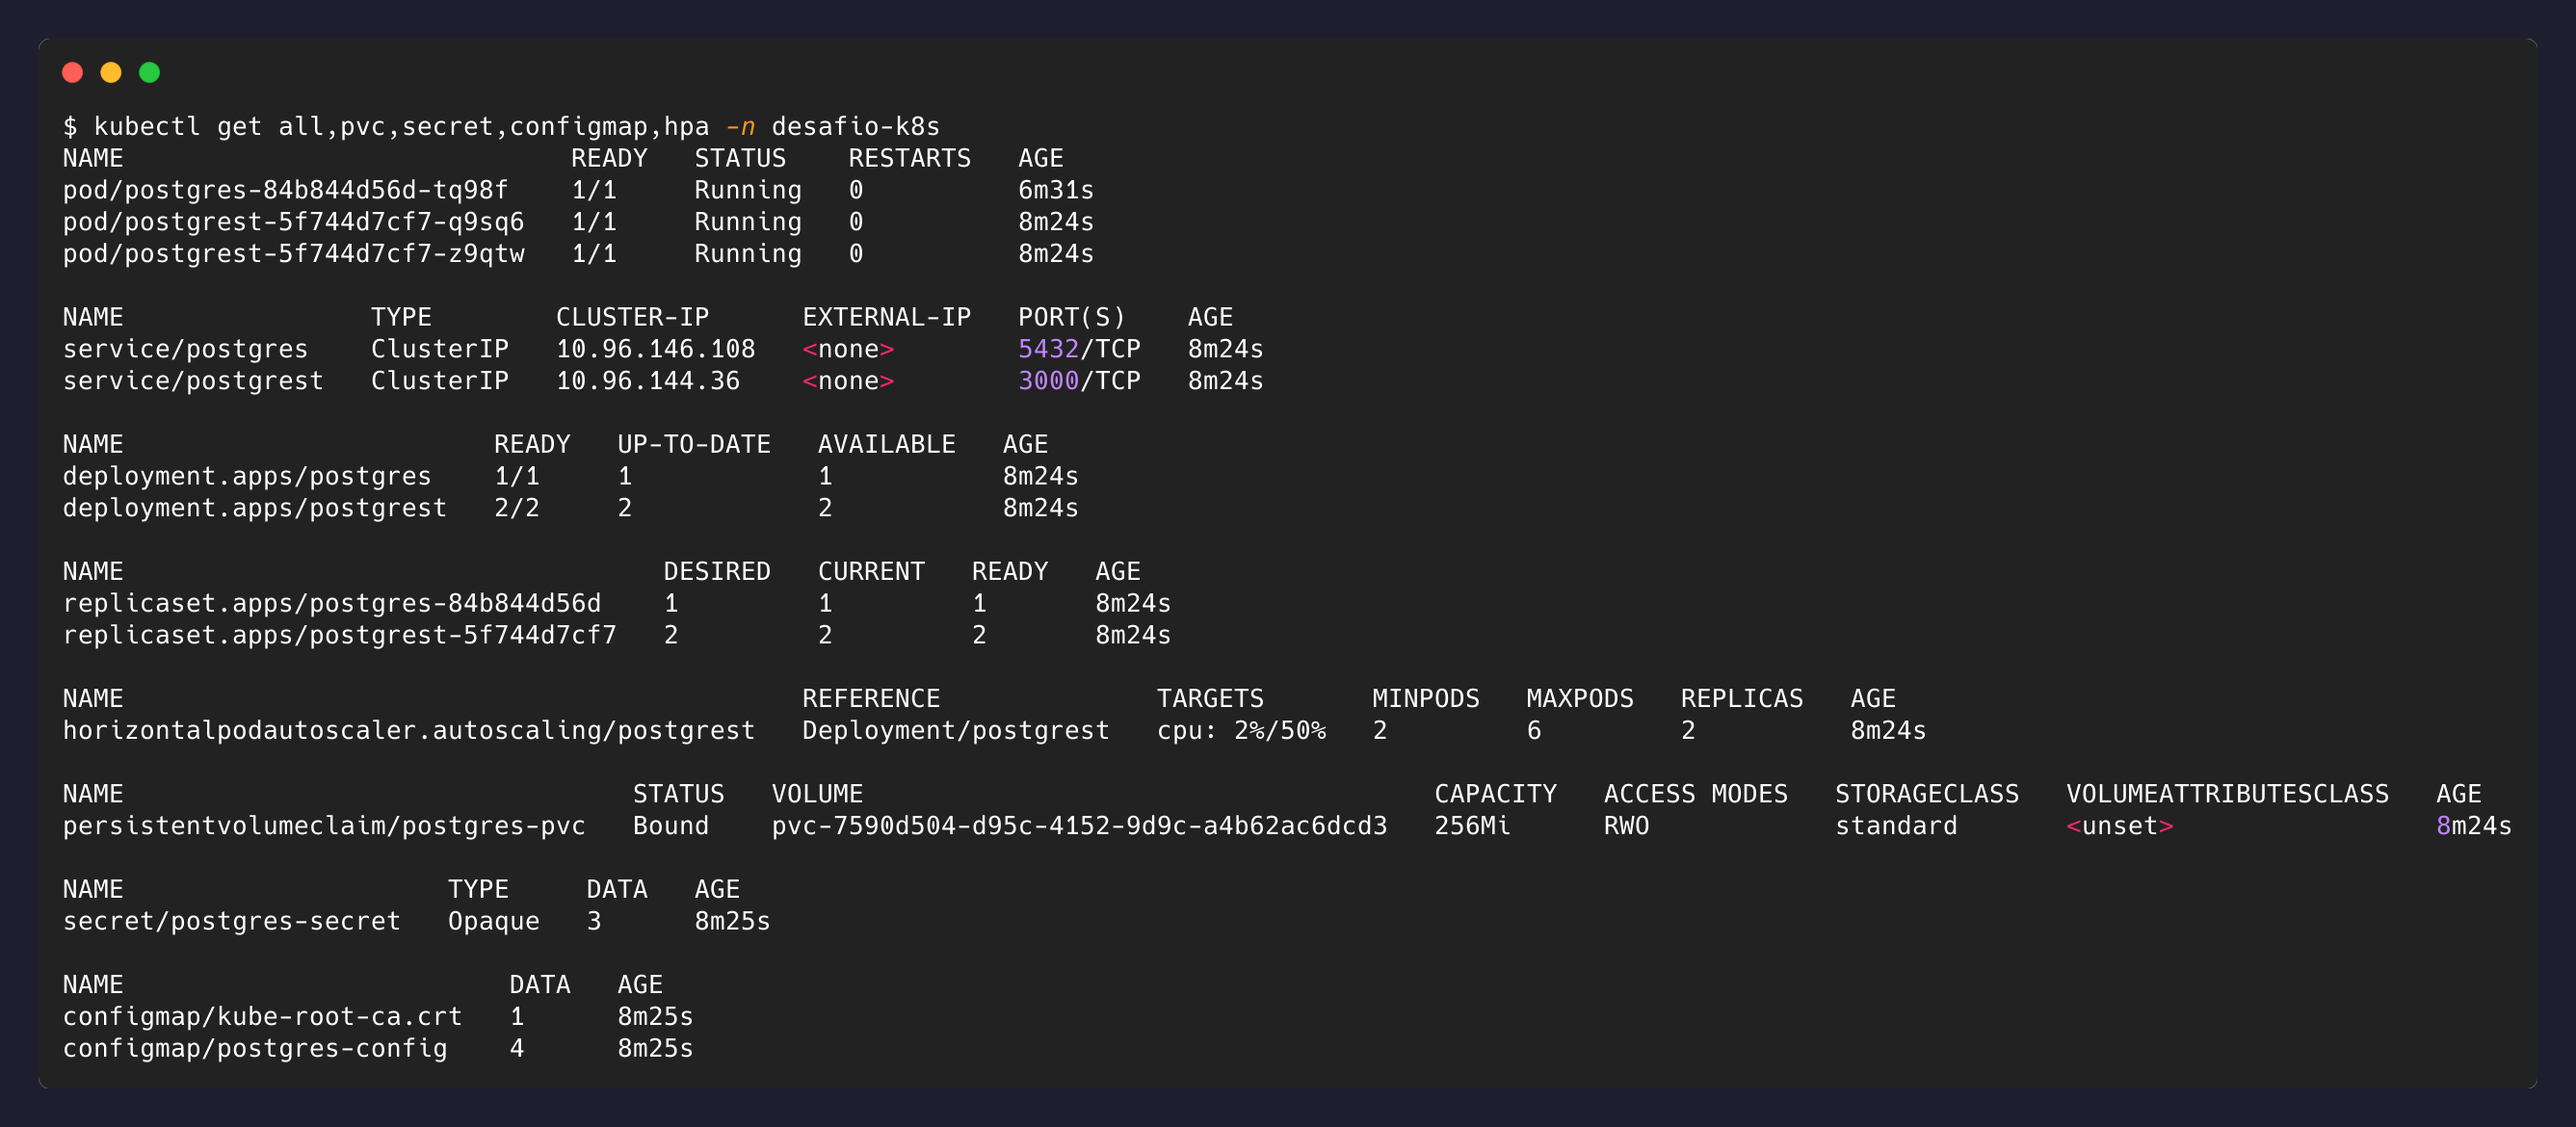
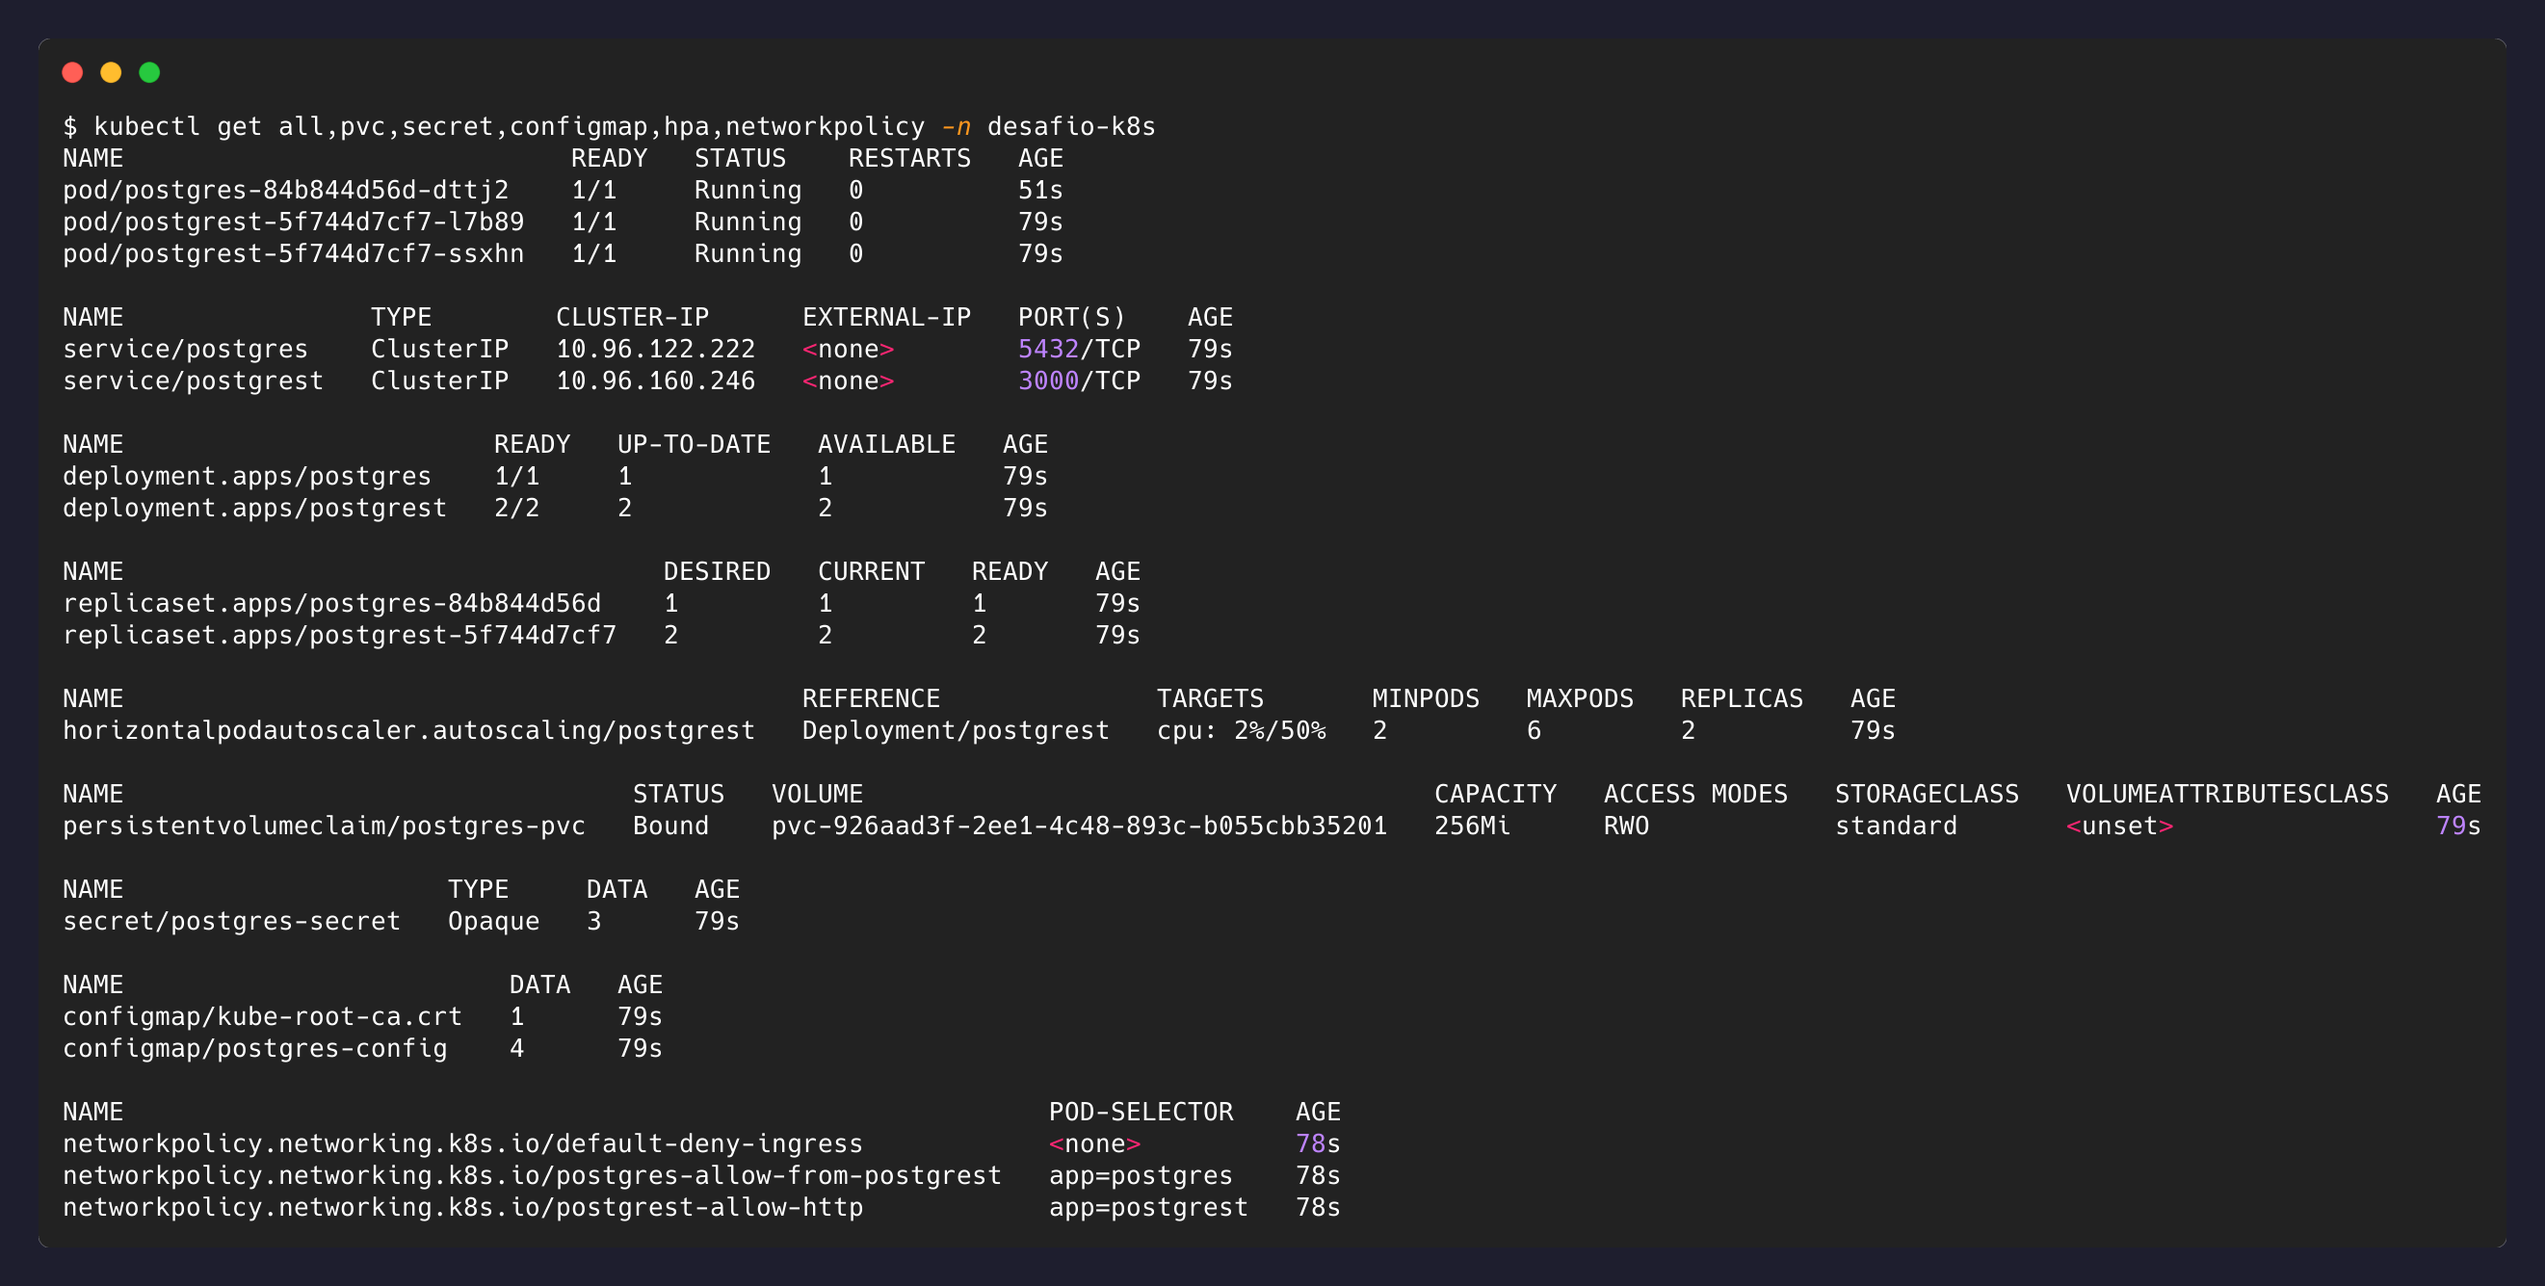
feat(security): add network policies and justify remaining checkov skips

diff --git a/docs/hardening-producao.md b/docs/hardening-producao.md
@@ -62,6 +62,20 @@ A API não se conecta como dono do banco. Existe um papel de conexão sem privil
 (`web_anon`: `SELECT` e `INSERT` em uma tabela). Detalhes e verificação automatizada em
 [API conectada ao banco](nivel-4-postgrest-integracao.md).
 
+## Segmentação de rede
+
+[`k8s/09-network-policies.yaml`](../k8s/09-network-policies.yaml) parte de um
+*default deny* de ingresso no namespace e libera apenas dois caminhos: a API aceita HTTP
+na porta 3000, e o banco aceita conexões **apenas** dos Pods da API, apenas na 5432.
+
+Sem isso, qualquer Pod do namespace alcança o banco diretamente — a segmentação limita o
+alcance de um container comprometido ao que ele legitimamente precisa.
+
+A aplicação efetiva depende do CNI: o `kindnet`, padrão do `kind`, não implementa
+NetworkPolicy, então em cluster local as regras são declarativas. Em CNIs que as suportam
+(Calico, Cilium, e os CNIs gerenciados de EKS/GKE/AKS) passam a valer sem nenhuma
+alteração nos manifests.
+
 ## Estratégia de rollout do banco
 
 O Deployment do Postgres usa `strategy: Recreate`. O padrão (`RollingUpdate`) cria o Pod

diff --git a/k8s/README.md b/k8s/README.md
@@ -17,6 +17,7 @@ da API.
 | `06-postgrest-deployment.yaml` | Deployment do PostgREST | [API](../docs/nivel-4-postgrest-integracao.md) |
 | `07-postgrest-service.yaml` | Service ClusterIP da API | [Exposição](../docs/nivel-5-persistencia.md) |
 | `08-postgrest-hpa.yaml` | HorizontalPodAutoscaler da API | [Escala automática](../docs/nivel-7-hpa.md) |
+| `09-network-policies.yaml` | NetworkPolicies: default deny + liberações mínimas | [Segurança](../docs/hardening-producao.md#segmentação-de-rede) |
 
 Decisões transversais (imagens por digest, contexto de segurança dos containers,
 estratégia de rollout) estão em

diff --git a/README.md b/README.md
@@ -214,6 +214,8 @@ kind delete cluster --name k8s-challenge   # se quiser remover o cluster inteiro
 - **Containers não-root**, com filesystem raiz somente leitura, todas as capabilities
   Linux removidas e `seccompProfile: RuntimeDefault`.
 - **Credenciais entregues como arquivo**, nunca em variáveis de ambiente.
+- **Segmentação de rede**: default deny de ingresso no namespace; o banco aceita conexões
+  apenas dos Pods da API.
 - **Imagens fixadas por digest**, garantindo que o mesmo `kubectl apply` produza o mesmo
   resultado em qualquer ambiente.
 
